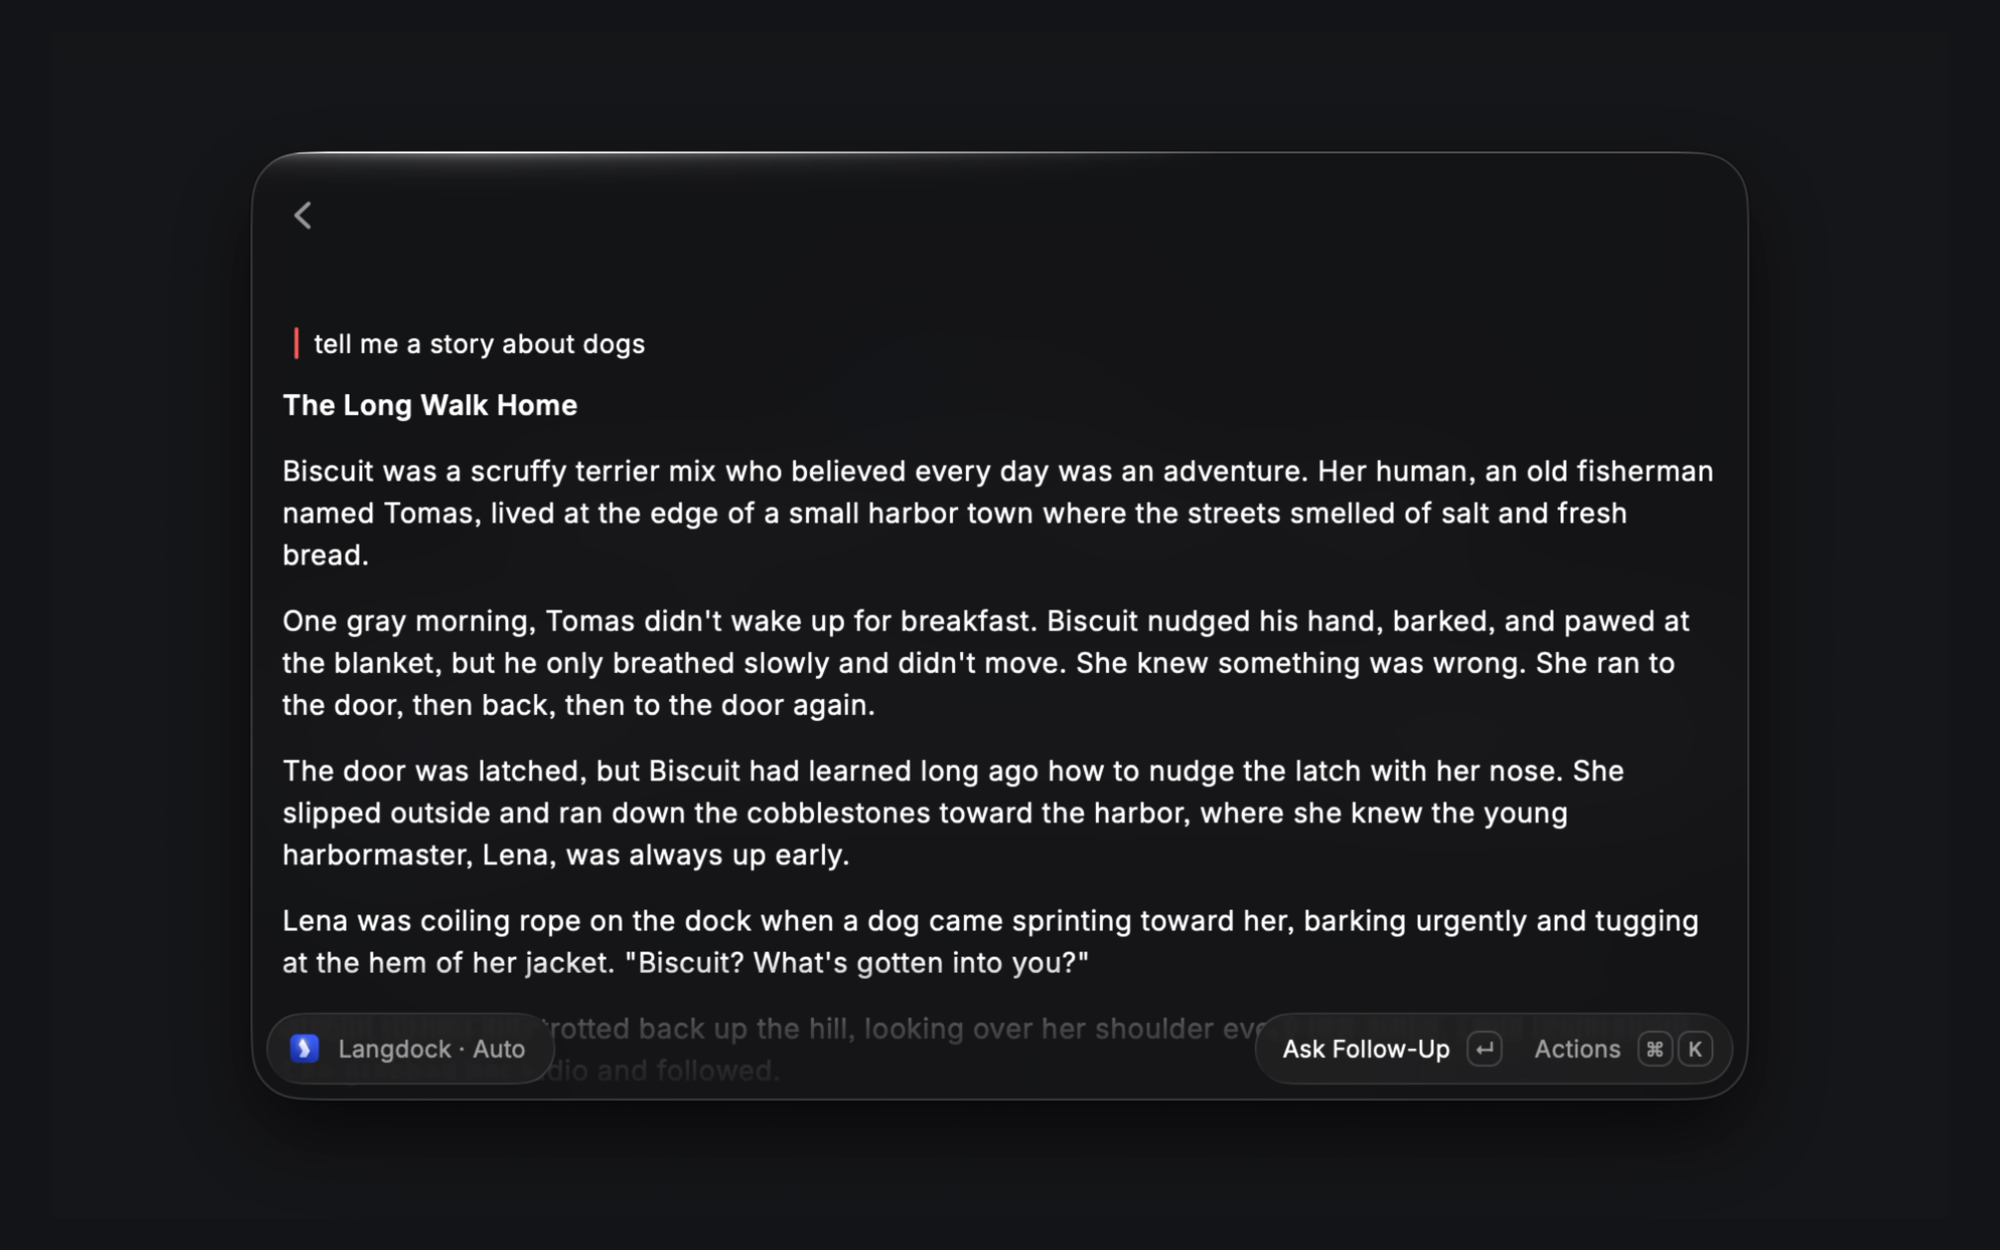
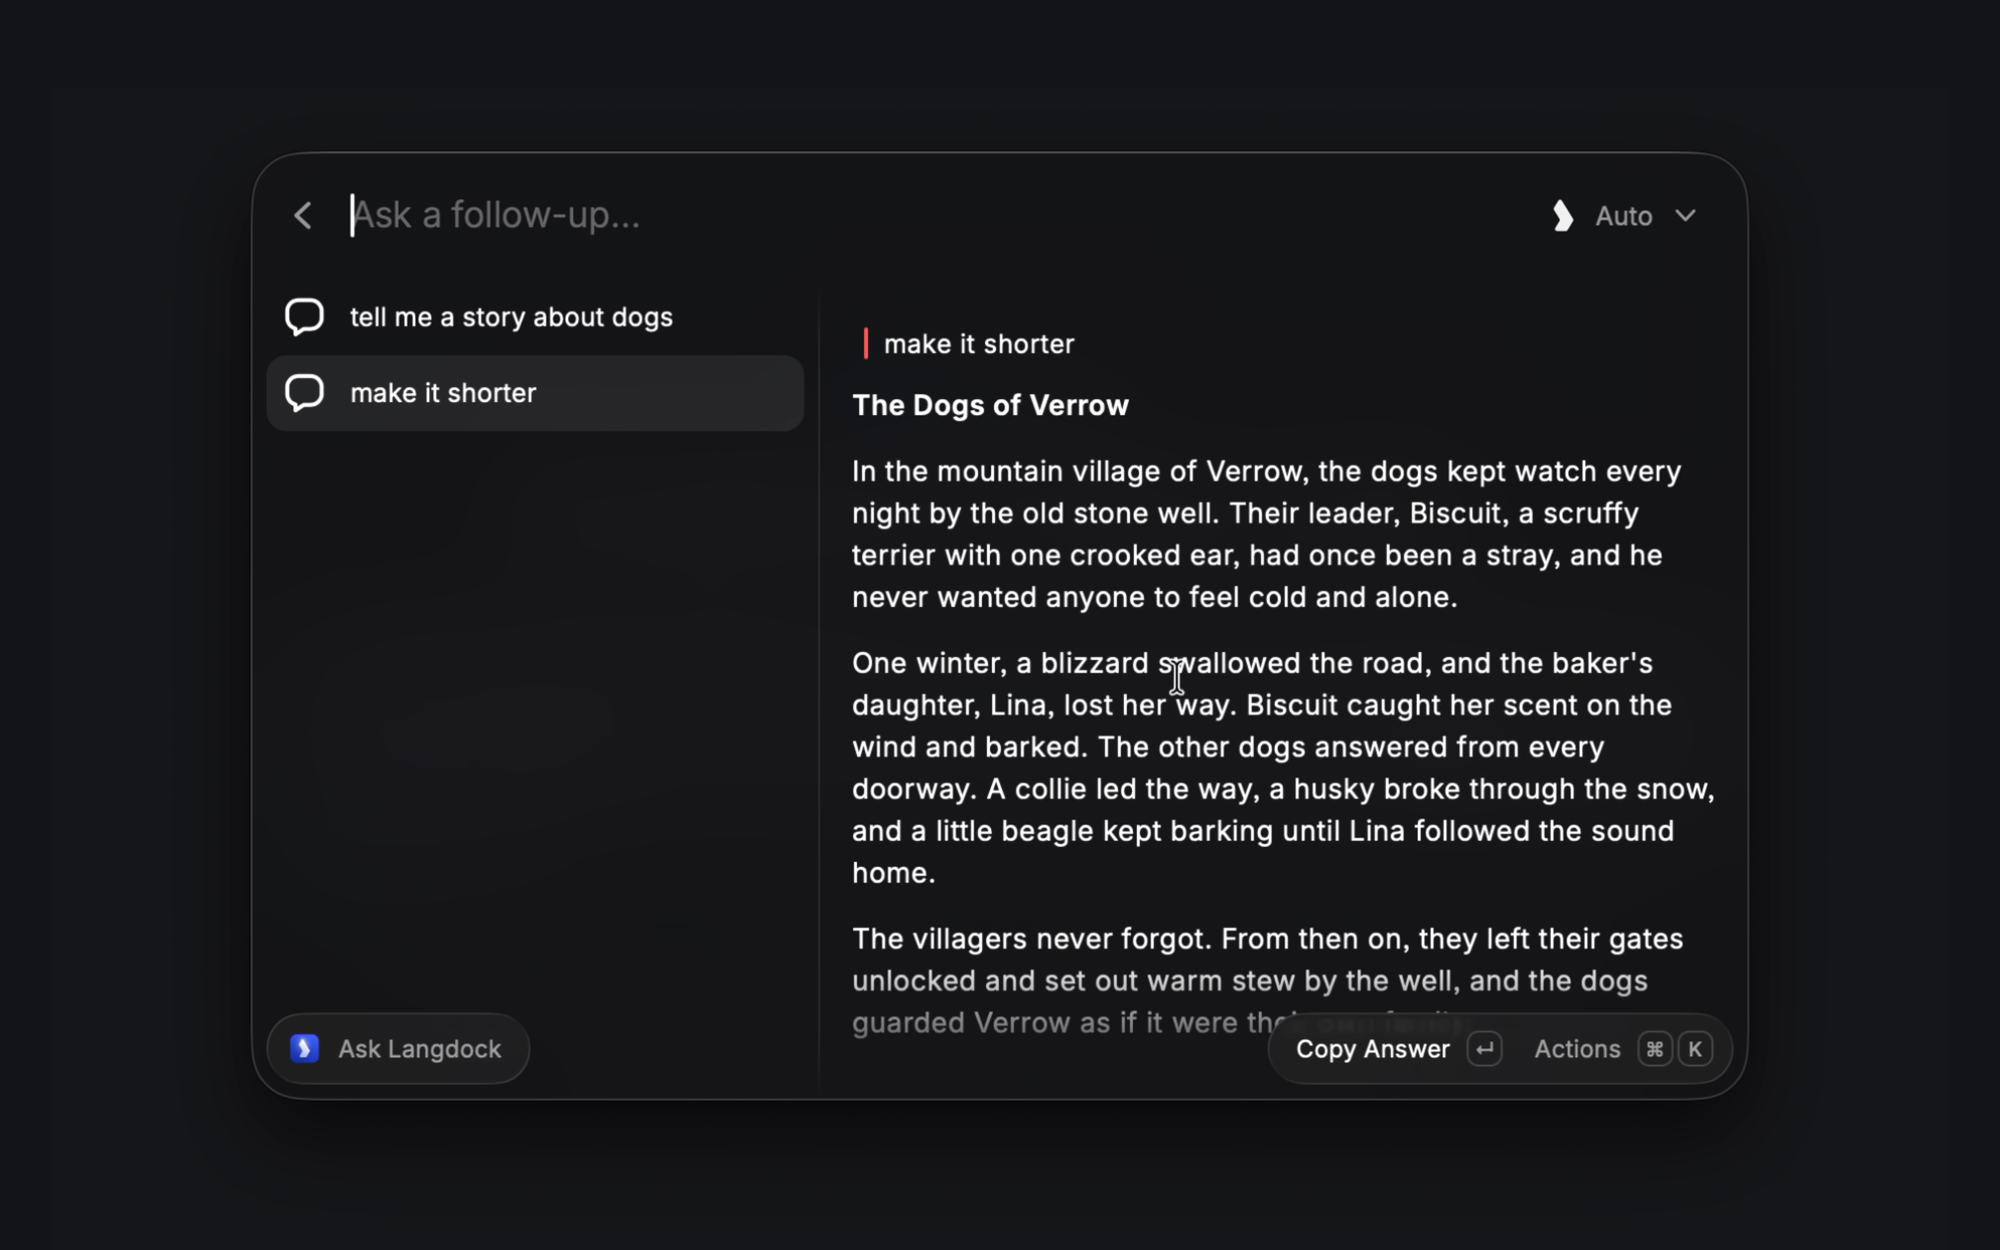
Enable only core commands by default and refresh Store screenshots
- Only Ask Langdock, Ask Agent, Ask About Selection, Improve Writing, Translate
  Selection, Ask About Web Page, Ask About Screenshot and Generate Image are
  enabled after install; the rest can be turned on in Raycast Settings
- New screenshots of the list chat and Chat History
- Chat History shows model names like the rest of the extension

diff --git a/src/chat-history.tsx b/src/chat-history.tsx
@@ -3,6 +3,8 @@ import { usePromise } from "@raycast/utils";
 import { Chat } from "./components/Chat";
 import { clearConversations, deleteConversation, getConversations, transcript } from "./lib/history";
 import { sanitizeMarkdown } from "./lib/markdown";
+import { displayName } from "./lib/models";
+import { AUTO_MODEL } from "./lib/langdock";
 
 export default function Command() {
   return <ChatHistory />;
@@ -48,7 +50,7 @@ function ChatHistory() {
                 <List.Item.Detail.Metadata>
                   <List.Item.Detail.Metadata.Label
                     title={conversation.agent ? "Agent" : "Model"}
-                    text={conversation.agent?.name ?? conversation.model ?? "Auto"}
+                    text={conversation.agent?.name ?? modelName(conversation.model)}
                   />
                   <List.Item.Detail.Metadata.Label title="Messages" text={String(conversation.turns.length * 2)} />
                   <List.Item.Detail.Metadata.Label
@@ -92,4 +94,8 @@ function ChatHistory() {
       ))}
     </List>
   );
+}
+
+function modelName(model: string | undefined): string {
+  return !model || model === AUTO_MODEL ? "Auto" : displayName(model);
 }

diff --git a/README.md b/README.md
@@ -50,7 +50,7 @@ Chat with Langdock models and agents, work with selected text and files, generat
 - **Fallback search:** add **Ask Langdock** to Raycast's fallback commands (Raycast Settings → Extensions → Langdock → Ask Langdock → Use as Fallback). Then type a question into Raycast's root search and pick Ask Langdock to send it right away.
 - **Quicklinks:** in **Ask Agent** or **Search Prompts**, use **Create Quicklink** (⌘⇧L) to give a favorite agent or prompt its own entry, alias and hotkey in Raycast.
 - **Default models:** pick a model in a chat or in Generate Image and use **Set as Default Model** (⌘⇧D).
-- **More commands:** Explain Selection, Search Skills, Browse Generated Images, Create Scheduled Task and Run Integration Action are off by default. Turn them on in Raycast Settings → Extensions → Langdock.
+- **More commands:** to keep Raycast's search tidy, only the core commands are on after installing: Ask Langdock, Ask Agent, Ask About Selection, Improve Writing, Translate Selection, Ask About Web Page, Ask About Screenshot and Generate Image. Turn on the others in Raycast Settings → Extensions → Langdock.
 
 ## Notes
 
